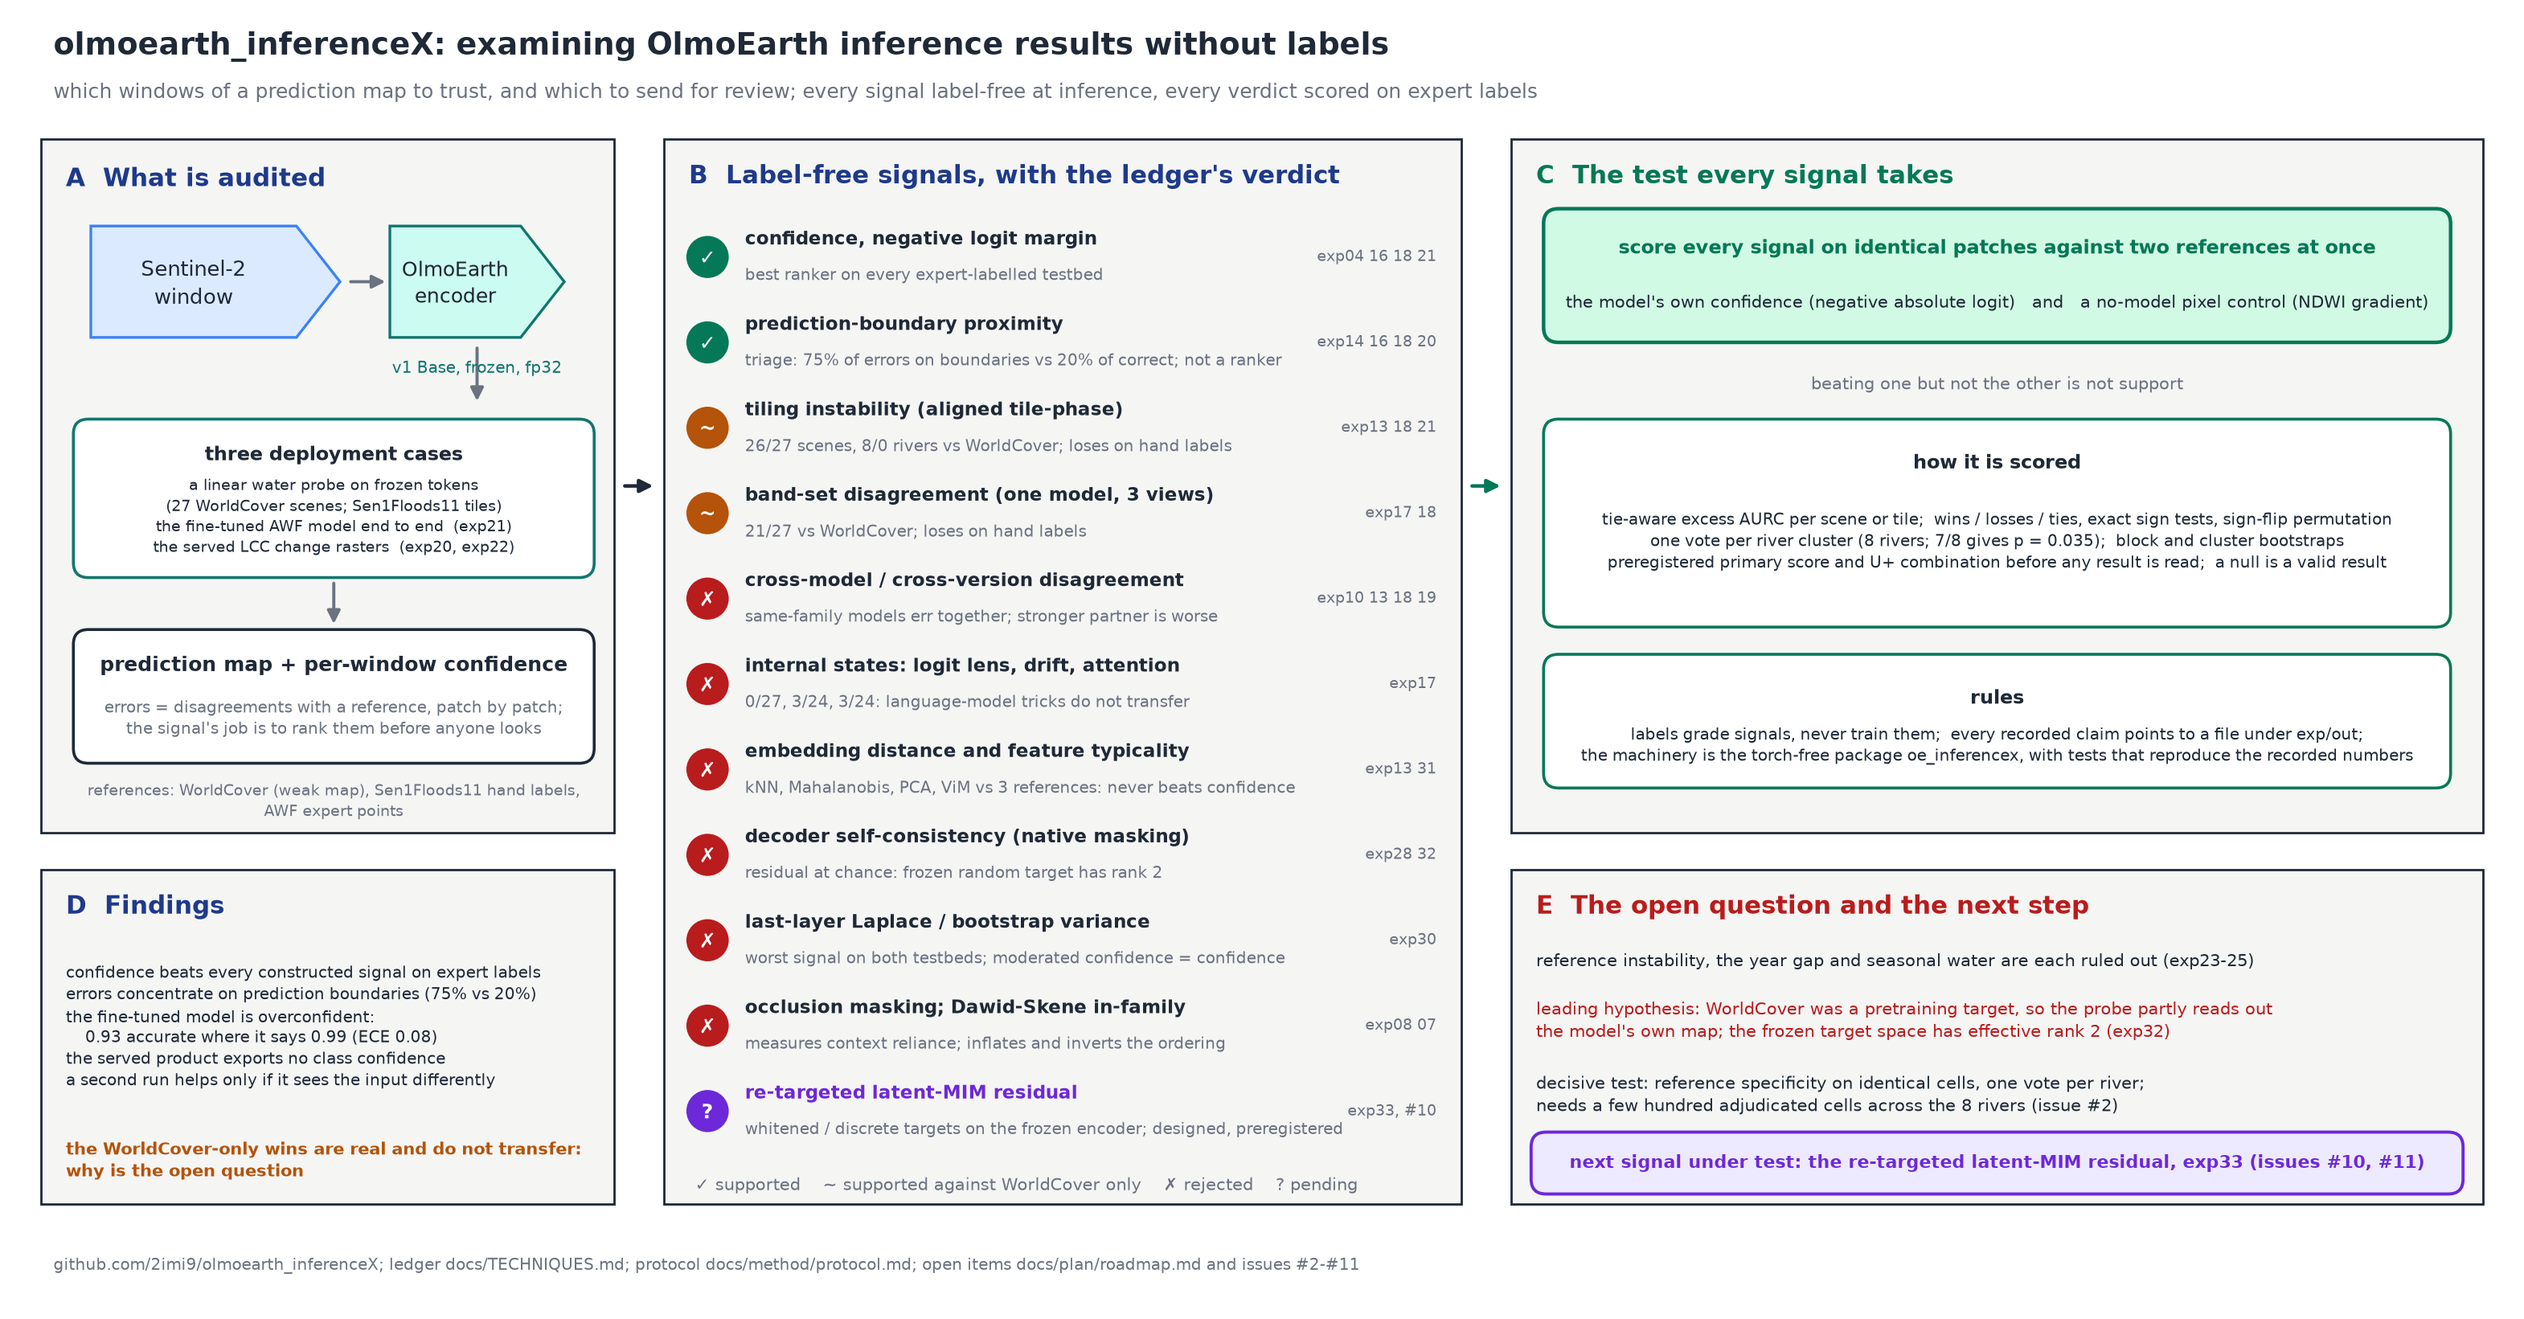
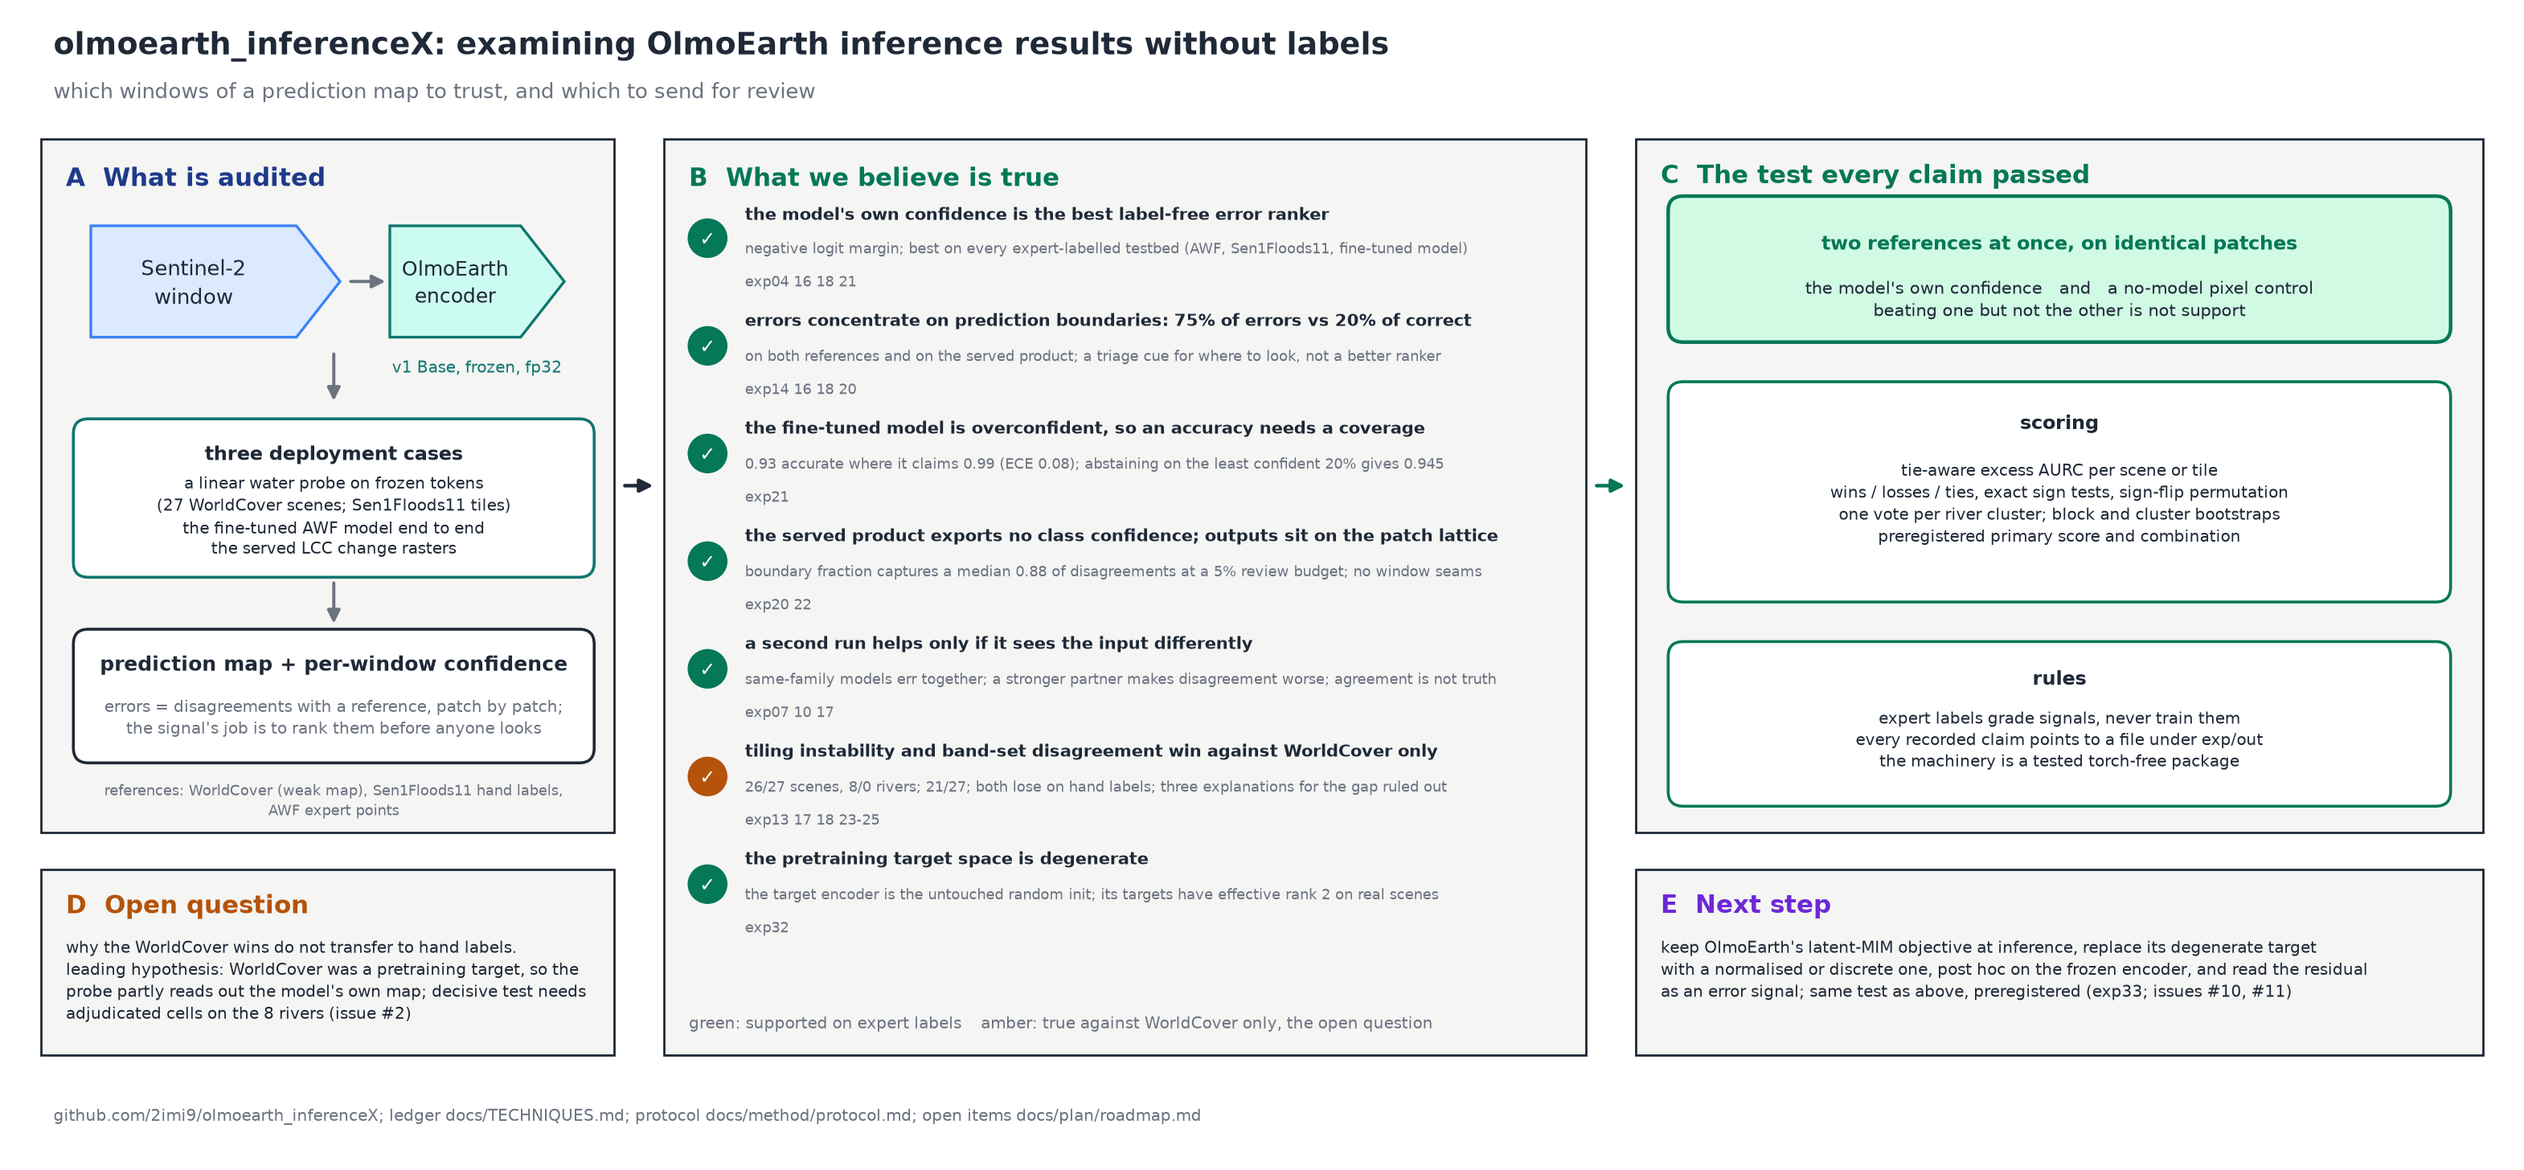
docs: overview figure restricted to what the ledger supports

Changed region(s): [[0.0312, 0.0309, 0.9987, 0.9581]]

diff --git a/docs/figures/inferencex_overview.py b/docs/figures/inferencex_overview.py
@@ -1,24 +1,23 @@
-"""Renders docs/figures/inferencex_overview.png: the repository in one figure. What is audited, the label-free signal
-families with the ledger's verdicts (docs/TECHNIQUES.md), the test every signal takes (docs/method/protocol.md),
-and the findings with the open question (docs/plan/roadmap.md). Numbers cite the experiments named on the figure."""
+"""Renders docs/figures/inferencex_overview.png: the repository in one figure, restricted to what the ledger supports.
+What is audited, what we believe is true (with the experiments behind each line), the test every claim passed, and the
+open question with its next step. Sources: docs/TECHNIQUES.md, docs/method/protocol.md, docs/plan/roadmap.md."""
 import matplotlib
 matplotlib.use("Agg")
 import matplotlib.pyplot as plt  # noqa: E402
 from matplotlib.patches import Circle, FancyArrowPatch, FancyBboxPatch, Polygon, Rectangle  # noqa: E402
 
-fig, ax = plt.subplots(figsize=(20, 10.4), dpi=200)
-ax.set_xlim(0, 200); ax.set_ylim(0, 104); ax.axis("off")
+fig, ax = plt.subplots(figsize=(20, 9.2), dpi=200)
+ax.set_xlim(0, 200); ax.set_ylim(0, 92); ax.axis("off")
 INK, MUTED, PANEL = "#1f2937", "#6b7280", "#f5f5f4"
 TEAL, TEAL_L = "#0f766e", "#ccfbf1"
 EMERALD, EMERALD_L = "#047857", "#d1fae5"
 AMBER, AMBER_L = "#b45309", "#fef3c7"
-STONE, STONE_L, CROSS = "#78716c", "#e7e5e4", "#b91c1c"
 VIOLET, VIOLET_L = "#6d28d9", "#ede9fe"
-NAVY = "#1e3a8a"
+NAVY, CROSS = "#1e3a8a", "#b91c1c"
 
 
 def text(x, y, t, fs=9, color=INK, weight="normal", ha="center", va="center"):
-    ax.text(x, y, t, ha=ha, va=va, fontsize=fs, color=color, weight=weight, linespacing=1.32)
+    ax.text(x, y, t, ha=ha, va=va, fontsize=fs, color=color, weight=weight, linespacing=1.35)
 
 
 def arrow(x0, y0, x1, y1, color=MUTED, lw=1.4):
@@ -29,10 +28,10 @@ def rbox(x, y, w, h, fc, ec, lw=1.3):
     ax.add_patch(FancyBboxPatch((x, y), w, h, boxstyle="round,pad=0.4,rounding_size=1.2", fc=fc, ec=ec, lw=lw))
 
 
-def block(x, y, w, h, t, fc=TEAL_L, ec=TEAL, fs=9.5, color=INK):
+def block(x, y, w, h, t, fc=TEAL_L, ec=TEAL, fs=9.5):
     tip = 3.5
     ax.add_patch(Polygon([(x, y), (x + w - tip, y), (x + w, y + h / 2), (x + w - tip, y + h), (x, y + h)], closed=True, fc=fc, ec=ec, lw=1.2))
-    text(x + (w - tip) / 2, y + h / 2, t, fs=fs, color=color)
+    text(x + (w - tip) / 2, y + h / 2, t, fs=fs)
 
 
 def panel(x, y, w, h, title, tc=NAVY):
@@ -40,91 +39,81 @@ def panel(x, y, w, h, title, tc=NAVY):
     text(x + 2, y + h - 3, title, fs=11, weight="bold", color=tc, ha="left")
 
 
-def badge(x, y, kind):
-    fc, mark = {"ok": (EMERALD, "✓"), "mixed": (AMBER, "~"), "no": (CROSS, "✗"), "next": (VIOLET, "?")}[kind]
-    ax.add_patch(Circle((x, y), 1.7, fc=fc, ec="none"))
-    text(x, y, mark, fs=9, color="white", weight="bold")
+def check(x, y, color=EMERALD):
+    ax.add_patch(Circle((x, y), 1.6, fc=color, ec="none"))
+    text(x, y, "✓", fs=8.5, color="white", weight="bold")
 
 
-text(3, 101.5, "olmoearth_inferenceX: examining OlmoEarth inference results without labels", fs=13.5, weight="bold", ha="left")
-text(3, 97.8, "which windows of a prediction map to trust, and which to send for review; every signal label-free at inference, every verdict scored on expert labels", fs=9, color=MUTED, ha="left")
+text(3, 89.5, "olmoearth_inferenceX: examining OlmoEarth inference results without labels", fs=13.5, weight="bold", ha="left")
+text(3, 85.8, "which windows of a prediction map to trust, and which to send for review", fs=9.5, color=MUTED, ha="left")
 
-# ------------------------------------------------------------------ panel A: what is audited
-panel(2, 38, 46, 56, "A  What is audited")
-block(6, 78, 20, 9, "Sentinel-2\nwindow", fc="#dbeafe", ec="#3b82f6")
-arrow(26.5, 82.5, 30, 82.5)
-block(30, 78, 14, 9, "OlmoEarth\nencoder", fs=9)
-text(37, 75.5, "v1 Base, frozen, fp32", fs=7.3, color=TEAL)
-arrow(37, 77.5, 37, 72.5)
-rbox(5, 59, 41, 12, "white", TEAL)
-text(25.5, 68.5, "three deployment cases", fs=8.5, weight="bold")
-text(25.5, 63.5, "a linear water probe on frozen tokens\n(27 WorldCover scenes; Sen1Floods11 tiles)\n"
-     "the fine-tuned AWF model end to end  (exp21)\nthe served LCC change rasters  (exp20, exp22)", fs=7.0)
-arrow(25.5, 58.5, 25.5, 54.5)
-rbox(5, 44, 41, 10, "white", INK)
-text(25.5, 51.5, "prediction map + per-window confidence", fs=9, weight="bold")
-text(25.5, 47.2, "errors = disagreements with a reference, patch by patch;\nthe signal's job is to rank them before anyone looks", fs=7.2, color=MUTED)
-text(25.5, 40.5, "references: WorldCover (weak map), Sen1Floods11 hand labels,\nAWF expert points", fs=7.0, color=MUTED)
+# ------------------------------------------------------------------ A: what is audited
+panel(2, 26, 46, 56, "A  What is audited")
+block(6, 66, 20, 9, "Sentinel-2\nwindow", fc="#dbeafe", ec="#3b82f6")
+arrow(26.5, 70.5, 30, 70.5)
+block(30, 66, 14, 9, "OlmoEarth\nencoder", fs=9)
+text(37, 63.5, "v1 Base, frozen, fp32", fs=7.3, color=TEAL)
+arrow(25.5, 65, 25.5, 60.5)
+rbox(5, 47, 41, 12, "white", TEAL)
+text(25.5, 56.5, "three deployment cases", fs=8.5, weight="bold")
+text(25.5, 51.5, "a linear water probe on frozen tokens\n(27 WorldCover scenes; Sen1Floods11 tiles)\n"
+     "the fine-tuned AWF model end to end\nthe served LCC change rasters", fs=7.2)
+arrow(25.5, 46.5, 25.5, 42.5)
+rbox(5, 32, 41, 10, "white", INK)
+text(25.5, 39.5, "prediction map + per-window confidence", fs=9, weight="bold")
+text(25.5, 35.2, "errors = disagreements with a reference, patch by patch;\nthe signal's job is to rank them before anyone looks", fs=7.2, color=MUTED)
+text(25.5, 28.5, "references: WorldCover (weak map), Sen1Floods11 hand labels,\nAWF expert points", fs=6.6, color=MUTED)
 
-# ------------------------------------------------------------------ panel B: signals and verdicts
-panel(52, 8, 64, 86, "B  Label-free signals, with the ledger's verdict")
-rows = [
-    ("ok", "confidence, negative logit margin", "best ranker on every expert-labelled testbed", "exp04 16 18 21"),
-    ("ok", "prediction-boundary proximity", "triage: 75% of errors on boundaries vs 20% of correct; not a ranker", "exp14 16 18 20"),
-    ("mixed", "tiling instability (aligned tile-phase)", "26/27 scenes, 8/0 rivers vs WorldCover; loses on hand labels", "exp13 18 21"),
-    ("mixed", "band-set disagreement (one model, 3 views)", "21/27 vs WorldCover; loses on hand labels", "exp17 18"),
-    ("no", "cross-model / cross-version disagreement", "same-family models err together; stronger partner is worse", "exp10 13 18 19"),
-    ("no", "internal states: logit lens, drift, attention", "0/27, 3/24, 3/24: language-model tricks do not transfer", "exp17"),
-    ("no", "embedding distance and feature typicality", "kNN, Mahalanobis, PCA, ViM vs 3 references: never beats confidence", "exp13 31"),
-    ("no", "decoder self-consistency (native masking)", "residual at chance: frozen random target has rank 2", "exp28 32"),
-    ("no", "last-layer Laplace / bootstrap variance", "worst signal on both testbeds; moderated confidence = confidence", "exp30"),
-    ("no", "occlusion masking; Dawid-Skene in-family", "measures context reliance; inflates and inverts the ordering", "exp08 07"),
-    ("next", "re-targeted latent-MIM residual", "whitened / discrete targets on the frozen encoder; designed, preregistered", "exp33, #10"),
+# ------------------------------------------------------------------ B: what we believe is true
+panel(52, 8, 74, 74, "B  What we believe is true", tc=EMERALD)
+beliefs = [
+    ("the model's own confidence is the best label-free error ranker",
+     "negative logit margin; best on every expert-labelled testbed (AWF, Sen1Floods11, fine-tuned model)", "exp04 16 18 21"),
+    ("errors concentrate on prediction boundaries: 75% of errors vs 20% of correct",
+     "on both references and on the served product; a triage cue for where to look, not a better ranker", "exp14 16 18 20"),
+    ("the fine-tuned model is overconfident, so an accuracy needs a coverage",
+     "0.93 accurate where it claims 0.99 (ECE 0.08); abstaining on the least confident 20% gives 0.945", "exp21"),
+    ("the served product exports no class confidence; outputs sit on the patch lattice",
+     "boundary fraction captures a median 0.88 of disagreements at a 5% review budget; no window seams", "exp20 22"),
+    ("a second run helps only if it sees the input differently",
+     "same-family models err together; a stronger partner makes disagreement worse; agreement is not truth", "exp07 10 17"),
+    ("tiling instability and band-set disagreement win against WorldCover only",
+     "26/27 scenes, 8/0 rivers; 21/27; both lose on hand labels; three explanations for the gap ruled out", "exp13 17 18 23-25"),
+    ("the pretraining target space is degenerate",
+     "the target encoder is the untouched random init; its targets have effective rank 2 on real scenes", "exp32"),
 ]
-y0 = 84.5
-for i, (k, name, verdict, exps) in enumerate(rows):
-    y = y0 - i * 6.9
-    badge(55.5, y, k)
-    text(58.5, y + 1.4, name, fs=8.3, weight="bold", ha="left", color=(VIOLET if k == "next" else INK))
-    text(58.5, y - 1.5, verdict, fs=7.2, ha="left", color=MUTED)
-    text(114, y, exps, fs=7, ha="right", color=MUTED)
-text(54.5, 9.5, "✓ supported    ~ supported against WorldCover only    ✗ rejected    ? pending", fs=7.6, ha="left", color=MUTED)
+y0 = 74
+for i, (claim, how, exps) in enumerate(beliefs):
+    y = y0 - i * 8.7
+    check(55.5, y, color=(AMBER if i == 5 else EMERALD))
+    text(58.5, y + 2.0, claim, fs=7.6, weight="bold", ha="left")
+    text(58.5, y - 0.9, how, fs=6.6, ha="left", color=MUTED, va="center")
+    text(58.5, y - 3.6, exps, fs=6.4, ha="left", color=MUTED)
+text(54, 10.5, "green: supported on expert labels    amber: true against WorldCover only, the open question", fs=7.3, ha="left", color=MUTED)
 
-# ------------------------------------------------------------------ panel C: the test
-panel(120, 38, 78, 56, "C  The test every signal takes", tc=EMERALD)
-rbox(123, 78, 72, 10, EMERALD_L, EMERALD, lw=1.6)
-text(159, 85.2, "score every signal on identical patches against two references at once", fs=8.8, weight="bold", color=EMERALD)
-text(159, 80.8, "the model's own confidence (negative absolute logit)   and   a no-model pixel control (NDWI gradient)", fs=7.6)
-text(159, 74.2, "beating one but not the other is not support", fs=7.6, color=MUTED)
-rbox(123, 55, 72, 16, "white", EMERALD)
-text(159, 68, "how it is scored", fs=8.8, weight="bold")
-text(159, 61.5, "tie-aware excess AURC per scene or tile;  wins / losses / ties, exact sign tests, sign-flip permutation\n"
-     "one vote per river cluster (8 rivers; 7/8 gives p = 0.035);  block and cluster bootstraps\n"
-     "preregistered primary score and U+ combination before any result is read;  a null is a valid result", fs=7.3)
-rbox(123, 42, 72, 10, "white", EMERALD)
-text(159, 49, "rules", fs=8.8, weight="bold")
-text(159, 45, "labels grade signals, never train them;  every recorded claim points to a file under exp/out;\n"
-     "the machinery is the torch-free package oe_inferencex, with tests that reproduce the recorded numbers", fs=7.3)
+# ------------------------------------------------------------------ C: the test
+panel(130, 26, 68, 56, "C  The test every claim passed", tc=EMERALD)
+rbox(133, 66, 62, 11, EMERALD_L, EMERALD, lw=1.6)
+text(164, 73.5, "two references at once, on identical patches", fs=8.8, weight="bold", color=EMERALD)
+text(164, 69, "the model's own confidence   and   a no-model pixel control\nbeating one but not the other is not support", fs=7.4)
+rbox(133, 45, 62, 17, "white", EMERALD)
+text(164, 59, "scoring", fs=8.8, weight="bold")
+text(164, 52.5, "tie-aware excess AURC per scene or tile\nwins / losses / ties, exact sign tests, sign-flip permutation\n"
+     "one vote per river cluster; block and cluster bootstraps\npreregistered primary score and combination", fs=7.3)
+rbox(133, 28.5, 62, 12.5, "white", EMERALD)
+text(164, 38.5, "rules", fs=8.8, weight="bold")
+text(164, 33.4, "expert labels grade signals, never train them\nevery recorded claim points to a file under exp/out\nthe machinery is a tested torch-free package", fs=7.1)
 
-# ------------------------------------------------------------------ panel D: findings and the open question
-panel(2, 8, 46, 27, "D  Findings")
-text(4, 27.5, "confidence beats every constructed signal on expert labels\n"
-     "errors concentrate on prediction boundaries (75% vs 20%)\n"
-     "the fine-tuned model is overconfident:\n    0.93 accurate where it says 0.99 (ECE 0.08)\n"
-     "the served product exports no class confidence\n"
-     "a second run helps only if it sees the input differently", fs=7.3, ha="left", va="top")
-text(4, 11.5, "the WorldCover-only wins are real and do not transfer:\nwhy is the open question", fs=7.4, ha="left", color=AMBER, weight="bold")
+# ------------------------------------------------------------------ D: open question and next step
+panel(2, 8, 46, 15, "D  Open question", tc=AMBER)
+text(4, 17.5, "why the WorldCover wins do not transfer to hand labels.\nleading hypothesis: WorldCover was a pretraining target, so the\n"
+     "probe partly reads out the model's own map; decisive test needs\nadjudicated cells on the 8 rivers (issue #2)", fs=7.3, ha="left", va="top")
+panel(130, 8, 68, 15, "E  Next step", tc=VIOLET)
+text(132, 17.5, "keep OlmoEarth's latent-MIM objective at inference, replace its degenerate target\n"
+     "with a normalised or discrete one, post hoc on the frozen encoder, and read the residual\n"
+     "as an error signal; same test as above, preregistered (exp33; issues #10, #11)", fs=7.3, ha="left", va="top")
 
-panel(120, 8, 78, 27, "E  The open question and the next step", tc=CROSS)
-text(122, 28.5, "reference instability, the year gap and seasonal water are each ruled out (exp23-25)", fs=7.6, ha="left", va="top")
-text(122, 24.6, "leading hypothesis: WorldCover was a pretraining target, so the probe partly reads out\n"
-     "the model's own map; the frozen target space has effective rank 2 (exp32)", fs=7.6, ha="left", va="top", color=CROSS)
-text(122, 18.6, "decisive test: reference specificity on identical cells, one vote per river;\n"
-     "needs a few hundred adjudicated cells across the 8 rivers (issue #2)", fs=7.6, ha="left", va="top")
-rbox(122, 9.2, 74, 4.2, VIOLET_L, VIOLET, lw=1.4)
-text(159, 11.3, "next signal under test: the re-targeted latent-MIM residual, exp33 (issues #10, #11)", fs=7.8, color=VIOLET, weight="bold")
-
-arrow(48.5, 66, 51.5, 66, color=INK, lw=1.6)
-arrow(116.5, 66, 119.5, 66, color=EMERALD, lw=1.6)
-text(3, 3, "github.com/2imi9/olmoearth_inferenceX; ledger docs/TECHNIQUES.md; protocol docs/method/protocol.md; open items docs/plan/roadmap.md and issues #2-#11", fs=7.3, color=MUTED, ha="left")
+arrow(48.5, 54, 51.5, 54, color=INK, lw=1.6)
+arrow(126.5, 54, 129.5, 54, color=EMERALD, lw=1.6)
+text(3, 3, "github.com/2imi9/olmoearth_inferenceX; ledger docs/TECHNIQUES.md; protocol docs/method/protocol.md; open items docs/plan/roadmap.md", fs=7.3, color=MUTED, ha="left")
 fig.savefig("docs/figures/inferencex_overview.png", bbox_inches="tight", facecolor="white")
